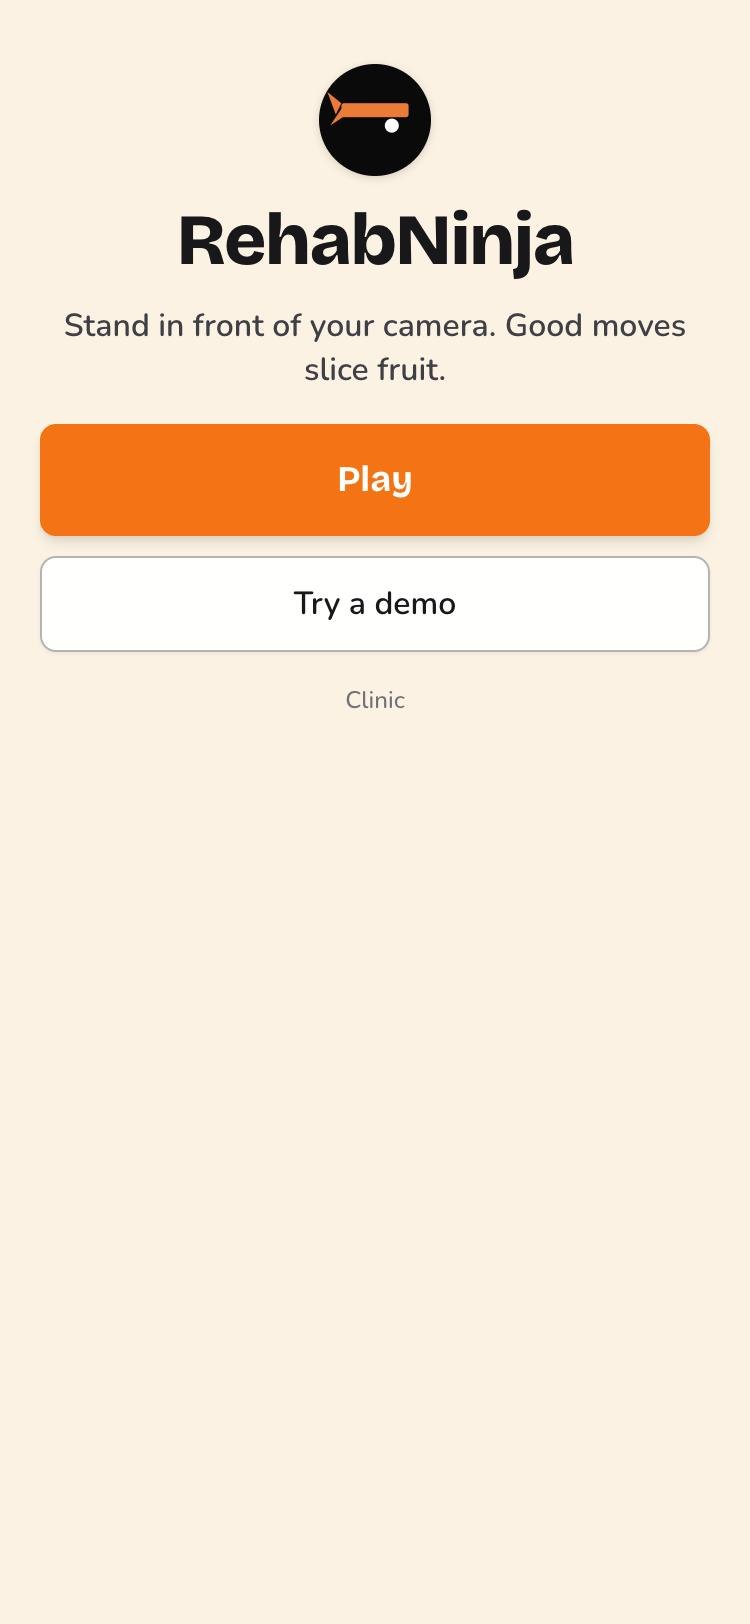
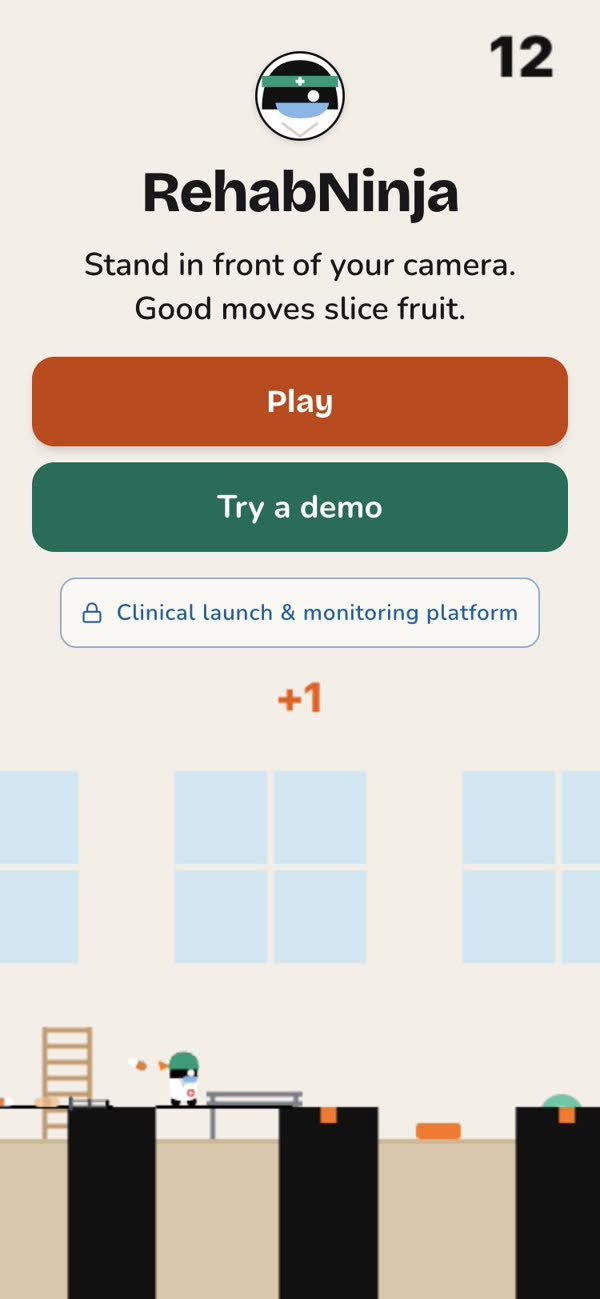
README: crew socialization and the clinic platform story; fresh screenshots
- Story: the game, the crew (opt-in peers to ease isolation while recovering at
  home), and the clinic platform (launch a protocol per patient, live board,
  rule-based triage with routes, human approve/downgrade, crew hold, audit trail).
- New screenshots from the current build: start screen, crew consent and board,
  player home, live fruit and bombs with the AI demo video, closing tip, protocol
  launch, live board, triage card, decision and crew panel, classic check-in.
- Classic check-in: the "AI-generated demo video" badge moves to the bottom of the
  frame during the test, clear of her face and the timer ring.

diff --git a/app/p/[token]/check-in.tsx b/app/p/[token]/check-in.tsx
@@ -383,7 +383,10 @@ export function CheckIn({
       <div className={cn("relative overflow-hidden rounded-xl bg-black", showCamera ? "block" : "hidden", step === "test" || step === "paused" ? "aspect-[3/4]" : "aspect-[4/3]")}>
         <video ref={videoRef} playsInline muted className={cn("h-full w-full", demo ? "object-contain" : "object-cover", demo && !demoVideo && "hidden", facing === "user" && !demo && "-scale-x-100")} />
         {demo && demoVideo && (
-          <span className="absolute right-3 top-3 z-10 rounded-full bg-black/70 px-3 py-1 text-base font-medium text-white">AI-generated demo video</span>
+          // Top right in setup (the framing pill owns the bottom); bottom centre in the test, clear of the timer ring.
+          <span className={cn("absolute z-10 whitespace-nowrap rounded-full bg-black/70 px-3 py-1 text-base font-medium text-white", step === "test" || step === "paused" ? "bottom-3 left-1/2 -translate-x-1/2" : "right-3 top-3")}>
+            AI-generated demo video
+          </span>
         )}
         <canvas ref={canvasRef} className={cn("pointer-events-none absolute inset-0 h-full w-full", facing === "user" && !demo && "-scale-x-100")} />
         {/* Until the camera is on, show what each safety check looks like (follows the first unticked check). */}

diff --git a/README.md b/README.md
@@ -1,39 +1,97 @@
 # Rise · RehabNinja
 
-**Post-op rehab you play on your phone.** Stand in front of the camera, do today's assigned move, and good reps slice fruit. When a knee drifts in or your hands push off the chair, the fruit turns into a bomb. Behind the game, the same pose tracking measures the CDC-standard chair stand, so the care team sees real numbers while the patient only ever sees hits and misses.
+**Post-op rehab you play on your phone, with a crew in your corner and a care team watching your back.**
+
+Patients stand in front of the camera, do today's assigned move, and good reps slice fruit. When a knee drifts in or their hands push off the chair, the fruit turns into a bomb. Behind the game, the same pose tracking measures the CDC-standard chair stand, so the care team sees real numbers while the patient only ever sees hits and misses.
+
+Rise has three parts:
+
+- **The game (RehabNinja).** Two minutes of play replace a form nobody fills in.
+- **The crew.** A small, opt-in group of people on the same recovery path, cheering each other on, so recovering at home feels less isolated.
+- **The clinic platform.** The care team launches a protocol for each patient, watches results arrive live, and decides every escalation with one human click.
 
 Built for the Real-Time Video Agents Hack – NYC (VAST Builders Challenge). All patient data is synthetic.
 
-**Live demo:** https://rise.nextrex.health (served from the demo laptop through a Cloudflare tunnel; up only while it runs). Try **Try a demo** for Ellen's scripted session, no camera needed.
+**Live demo:** https://rise.nextrex.health (served from the demo laptop through a Cloudflare tunnel, so it's only up while the laptop runs it). Tap **Try a demo** for Ellen's session, no camera needed.
 
 <p>
-  <img src="docs/images/01-landing.jpg" alt="RehabNinja landing: Play or Try a demo" width="200">
-  <img src="docs/images/02-your-board.jpg" alt="Your board: Ellen's rank and score in her knee-track cohort" width="200">
-  <img src="docs/images/03-player-home.jpg" alt="Your home: day 3, board place, and today's mission, chair sit-to-stand 1 × 6" width="200">
+  <img src="docs/images/01-landing.jpg" alt="RehabNinja start screen: Play, Try a demo, and a staff link to the clinical launch and monitoring platform" width="200">
+  <img src="docs/images/03-crew-board.jpg" alt="Ellen's crew: first names and initials, days active this week, cheers" width="200">
+  <img src="docs/images/05-live-fruit.jpg" alt="Live play: a clean arms-crossed stand slices the fruit, with the AI demo video picture-in-picture" width="200">
+  <img src="docs/images/10-triage-card.jpg" alt="Clinic triage card: Escalate urgent to surgeon on call, awaiting a person's decision, with the rule that fired" width="380">
+</p>
+
+## Why
+
+After a joint replacement, the day-7 phone call hears "I'm fine," and functional decline goes unseen until the next visit or the ED. Patients are often 60 to 80, recovering alone, with one phone. They won't fill in forms, and weeks at home with limited mobility can leave them isolated. Rise answers each problem in a different way:
+
+| Problem | What Rise does |
+| --- | --- |
+| Forms go unanswered | A two-minute game measures the CDC STEADI 30-Second Chair Stand in the background |
+| Recovering alone is isolating | An opt-in crew of peers on the same path: days active, a shared weekly goal, and cheers |
+| Decline is noticed late | Every session lands on a live clinic board, triaged by written rules |
+| Escalation is ad hoc | Each recommendation names a route (surgeon, primary care, or PT), and a person approves or downgrades it with a reason |
+
+## For the patient
+
+<p>
+  <img src="docs/images/04-player-home.jpg" alt="Your home: day 3 since surgery, check-ins done, how last time felt, and today's mission" width="200">
+  <img src="docs/images/06-live-bombs.jpg" alt="Live play: bombs on the hands and knees when she pushes off her thighs" width="200">
+  <img src="docs/images/07-session-report.jpg" alt="Closing: one tip for next time, in plain language, with the coach's line captioned below" width="200">
+  <img src="docs/images/12-classic-checkin.jpg" alt="Classic CDC check-in: the AI demo video in the camera frame while the coach says keep your arms crossed" width="200">
+</p>
+
+1. **Your week and your crew.** Patients see their own progress first. Below it is their crew, if they choose to join.
+2. **Your home and today's missions.** Day since surgery, check-ins done, how last time felt, and the moves the program assigns for this stage: chair sit-to-stand, mini squat, or single-leg balance.
+3. **Play.** The phone tracks the body on-device. Clean reps slice the fruit on the joints. Form breaks (knees caving in, moving too fast, pushing off with the hands, leaning to one side) become bombs. A single ElevenLabs coach voice reads every line, every line is captioned, and Stop is always on screen.
+4. **Four quick questions.** Pain, dizziness, shortness of breath or chest pain, and calf pain or swelling. A yes to breath or chest pain goes straight to call-911 instructions.
+5. **Closing, in three short steps.** One tip for next time, how today went compared with last time, and an optional note for the nurse. There is never a clinical score.
+
+The **classic check-in** (`/p/<patient>`) is the same CDC test as a voice-led flow with no game. Until the camera is on, a picture guide shows each safety check: a chair without armrests against a wall, a helper nearby, and the phone on the floor.
+
+## The crew: recovering together
+
+Recovery at home can be lonely. The crew turns rehab into something people do together without turning it into a competition.
+
+<p>
+  <img src="docs/images/02-crew-consent.jpg" alt="Join your crew: what your crew sees and what it never sees" width="200">
+  <img src="docs/images/03-crew-board.jpg" alt="Who is on this crew: names with one initial, days active, cheers" width="200">
+</p>
+
+- **Opt-in, with plain consent.** Before joining, patients see exactly what their crew will see (first name and initial, days active this week, cheers) and what it never sees (exercise results, health answers, messages with the care team). Joining, leaving, and showing or hiding a photo are each recorded in a consent log. Patients can leave at any time.
+- **Motivation, not rank.** There are no ranks, places, scores, or rep counts. The crew shares a weekly goal of 2 active days per member, loosely informed by CDC's guidance of at least 2 days a week of muscle-strengthening activity for older adults. It is a Rise default, not a clinical dose. Cheers come from a fixed, friendly set, sent from a verified device, so nothing negative can be written.
+- **Safe by default.** When a session escalates, the patient is quietly put on hold from their crew. Peers no longer see them, and no one is told to "keep going" after being told to rest. Only a clinician returns them to their crew, with a recorded reason.
+- **Neutral crew names** like "Maple crew" never reveal a procedure or diagnosis. The crew peers in the demo are synthetic.
+
+## The clinic platform: launch protocols, manage escalation
+
+The staff link on the start screen opens the clinic console (`/clinic`). It is where the care team starts each check-in and decides what happens after.
+
+<p>
+  <img src="docs/images/08-launch-protocol.jpg" alt="Send check-in: choose the RehabNinja game or the classic CDC check-in, optionally with the demo recording" width="400">
+  <img src="docs/images/09-console-board.jpg" alt="Live board and patient list: Ellen's card reads Escalate urgent to surgeon on call, awaiting a decision" width="400">
 </p>
 <p>
-  <img src="docs/images/04-live-fruit.jpg" alt="Live play: fruit on the knees during a clean stand, reps 1 of 6" width="200">
-  <img src="docs/images/05-live-bombs.jpg" alt="Live play: bombs when the hands push off the chair" width="200">
-  <img src="docs/images/06-session-report.jpg" alt="Session report: 2 hits, hit timeline, one plain-language correction" width="200">
+  <img src="docs/images/10-triage-card.jpg" alt="Triage card: the recommendation, the rule that fired, and the 30-Second Chair Stand result" width="400">
+  <img src="docs/images/11-decision-and-crew.jpg" alt="Your decision: approve or downgrade with a reason, the crew hold, and the audit trail" width="400">
 </p>
 
-## How a session plays
-
-1. **Your week and your crew.** Each patient sees their own progress, plus a crew of people on the same recovery path: first name and initial, days active this week, a shared crew goal, and three fixed cheers they can send once a day. No ranks, places, scores, reps, or procedures are shared, and a red-flag session never shows as active. The crew peers are synthetic.
-2. **Your home and today's missions.** Day since surgery, check-ins, how last time felt, and the moves the program assigns for this stage: chair sit-to-stand, mini squat, or single-leg balance.
-3. **Play.** The phone tracks the body on-device. Clean reps slice the fruit on your joints; form breaks (knees caving in, moving too fast, pushing off with your hands, leaning to one side) become bombs. A voice coach (ElevenLabs) and captions guide every step, and Stop is always on screen.
-4. **Four quick questions.** Pain, dizziness, shortness of breath or chest pain, calf pain or swelling. A yes to breath or chest pain goes straight to call-911 instructions.
-5. **Session report.** Hits and a hit timeline, plus one plain-language correction ("You used your arms to help you stand", what it means, what to try next). Never a clinical score.
+- **Launch a protocol for each patient.** From the patient list, a coordinator sends a check-in link and chooses the protocol: the RehabNinja game (the moves assigned for this recovery stage, not a CDC score) or the classic CDC STEADI 30-Second Chair Stand with spoken instructions. Protocol defaults, such as cadence by post-op day, decline thresholds, symptom questions, and crew rules, live in [`config/protocol.default.json`](config/protocol.default.json). They are labeled as Rise defaults, not clinical standards, and every override needs a reason code.
+- **Watch it live.** Sessions stream onto the live board as they happen, from setting up through testing to ready.
+- **Triage by written rules, never a model.** [`lib/rules.ts`](lib/rules.ts) produces the recommendation: escalate urgent, nurse callback, or continue the plan. It routes to the surgeon on call within 30 days of surgery, or to primary care or PT. The card shows which rule fired and why (for Ellen: 3 stands against 5 last time, arms used from rep 2), along with the CDC result, symptoms, and the patient's note quoted exactly as written.
+- **A person decides every escalation.** Nothing is sent or escalated until someone clicks. They can approve the recommendation or downgrade it with a reason, such as spoke with the patient, finding already known, camera problem, or in-person visit within 24 hours. Every decision goes into the audit trail. A red-flag answer is the one exception: the patient sees the emergency line immediately.
+- **Crew controls.** The card shows the patient's crew hold and consent history, and returns them to their crew once the card is decided.
+- **Gated.** On the public tunnel, the console sits behind a `CONSOLE_KEY` cookie, and every POST must come from the same site.
 
 ## YOLO detects, Cosmos verifies
 
 The game reacts instantly because YOLO runs on the phone. Every time YOLO flags a form break (knees caving, too fast, hands pushing off, leaning) or loses tracking, Rise also sends the last ~2 seconds of camera frames to **NVIDIA Cosmos** (`cosmos3-nano-reasoner`, the event's NIM) for a second look. The clinic strip shows whether Cosmos confirms what YOLO saw, what it observed, and "Needs a human look" if anything looks unsafe. With four 448 px frames, Cosmos answers in about 1.3–3.6 s.
 
 <p>
-  <img src="docs/images/07-cosmos-second-look.jpg" alt="Live play with the clinic strip: hits, hit timeline, and a Cosmos second look on 'Miss — hands'" width="640">
+  <img src="docs/images/13-cosmos-second-look.jpg" alt="Live play with the clinic strip: hits, hit timeline, and a Cosmos second look on 'Miss — hands'" width="640">
 </p>
 
-The screenshot is Ellen's demo replay, which has no camera frames, so the entry is the pose-only fallback, badged "Demo replay". With the live camera, the entry is Cosmos's own reply. Here's a real one from the event endpoint, run on a still frame where there's no motion to judge:
+The screenshot is from Ellen's demo replay, which has no camera frames, so the entry is the pose-only fallback, badged "Demo replay". With the live camera, the entry is Cosmos's own reply. Here's a real one from the event endpoint, run on a still frame with no motion to judge:
 
 ```json
 {
@@ -51,39 +109,44 @@ The screenshot is Ellen's demo replay, which has no camera frames, so the entry 
 
 Cosmos is care-team only. It never changes hits, bombs, or triage, and never talks to the patient.
 
-## Why a game
-
-After a joint replacement, the day-7 phone call hears "I'm fine," and functional decline goes unseen until the next visit or the ED. Patients (often 60–80, alone, with one phone) won't fill in forms, but they will play two minutes of a game. Rise turns the standard test into that game:
+## What the patient sees vs. what the care team gets
 
 | What the patient sees | What the care team gets |
 | --- | --- |
 | Fruit, bombs, reps toward a target | CDC STEADI 30-Second Chair Stand: raw stands, the arm-use rule (score 0 if arms are used), knee asymmetry, pauses |
 | "Today seemed harder than last time" | The trend against the patient's own last check-in |
-| One friendly correction | Which form break fired, and when |
-| Nothing scary | Deterministic triage: escalate, nurse callback, or continue the plan, routed to surgeon, primary care, or PT |
+| One friendly tip | Which form break fired, and when |
+| Their crew's cheers | Crew hold and consent history on the triage card |
+| Nothing scary | Deterministic triage, routed to surgeon, primary care, or PT, approved by a person |
 
-The recommendation always comes from written rules (`lib/rules.ts`), never a model, and a person approves every escalation. Patient-facing text comes only from locked copy files, written to SAMHSA's trauma-informed principles.
+Patient-facing text comes only from locked copy files, written to SAMHSA's trauma-informed principles.
 
-## Two ways in
+## Demo mode and the AI-generated demo video
 
-- **RehabNinja** (`/` → `/play` board → `/play/<patient>` home → play): the game, above.
-- **Classic check-in** (`/p/rise-01`): the same test as a voice-led, no-game flow (P1–P5): safety checks and framing, spoken CDC instructions, a 30-second chair stand, four questions, closing lines. **Use demo recording** replays a patient's session without a camera.
+**Try a demo** and the console's **Use demo recording** run without a camera. For Ellen, both play a 30-second AI-generated video of a synthetic older woman doing the chair stand: one clean stand with her arms crossed, then two where she pushes off her thighs. It is labeled "AI-generated demo video" wherever it appears.
+
+- **Classic check-in:** the video plays in the camera frame, in step with keypoints recorded from it ([`public/fixtures/rise-01-arms.json`](public/fixtures/rise-01-arms.json)). The counter and triage run on exactly what the video shows.
+- **RehabNinja:** the video plays picture-in-picture while the medic ninja moves from her keypoints, so clean stands earn fruit and push-offs earn bombs. Add `?replay=1` to force the replay on a laptop that has a camera.
+
+The video was made with the Runway API ([`scripts/gen-demo-video.ts`](scripts/gen-demo-video.ts), dry run by default, with a credit cap). Every other patient uses a synthetic keypoint replay.
 
 ## Under the hood
 
 ```
 Phone camera ──> pose on-device (YOLO11n-pose ONNX via WebGPU/WASM, MediaPipe fallback)
              ──> stand counter / form findings ──> fruit, bombs, reps (RehabNinja)
-                                               ├─> on a form break: last ~2 s of frames ──> Cosmos (cosmos3-nano-reasoner) second look ──> clinic strip
-                                               └─> CDC score + deterministic triage rules
+                                               ├─> on a form break: last ~2 s of frames ──> Cosmos second look ──> clinic strip
+                                               └─> CDC score + deterministic triage rules ──> live clinic board (SSE) ──> human decision ──> audit trail
+Crew: opt-in membership, consent log, device-token cheers, auto-hold on escalation
 Voice: ElevenLabs lines pre-rendered to public/voice (hash-keyed; browser speech fallback)
 Hosting: Next.js on the demo laptop ──> Cloudflare Tunnel ──> rise.nextrex.health
 ```
 
-- **Pose tiers:** YOLO is kept only at 15 fps or more on the phone (benchmarked: 16.6 fps WebGPU on Rex's phone); MediaPipe is preloaded and takes over mid-set if YOLO drops under 12 fps for 2 s; a demo replay drives the same code with no camera.
-- **Counter:** knee angle plus hip rise with hysteresis, the CDC half-way rule at 30 s, arm-use, mid-rise asymmetry, pauses. Unit-tested against all seven seed patients.
-- **Cosmos second look:** YOLO detects, Cosmos verifies. When YOLO flags a form break or loses tracking during live play, the last ~2 s of camera frames (4 downscaled JPEGs, never stored) and YOLO's numbers go to Cosmos (`nvidia/cosmos3-nano-reasoner` on the event's NVIDIA NIM) through `POST /api/cosmos/second-look`. The clinic strip shows whether Cosmos confirms what YOLO saw, what it observed, and "Needs a human look" on anything unsafe. It is care-team only and never changes hits, bombs, or triage. It uses an OpenAI-compatible endpoint with a bearer token (`COSMOS_BASE_URL`, `COSMOS_API_KEY`, `COSMOS_MODEL` in `.env.local`; check with `npm run cosmos:probe`), with a pose-only fallback badged "Demo data" when Cosmos is unavailable or in demo replay.
-- **Built, not yet wired:** a W&B agent note (Weave-traced), VAST clip ingest and semantic search, Twilio invites, and the live clinic console have typed contracts (`lib/types.ts`) and stubs in `lib/ai/` and `lib/adapters/`, but no live calls yet.
+- **Pose tiers:** YOLO is kept only at 15 fps or more on the phone (benchmarked at 16.6 fps with WebGPU on Rex's phone). MediaPipe is preloaded and takes over mid-set if YOLO drops under 12 fps for 2 s. A demo replay drives the same code with no camera.
+- **Counter:** knee angle plus hip rise with hysteresis, the CDC half-way rule at 30 s, arm use, mid-rise asymmetry, and pauses. Arm use is judged against the patient's own seated arms-crossed pose, so a phone propped side-on or in front both work. Unit-tested against all seven seed patients and the recorded demo fixture.
+- **Cosmos second look:** when YOLO flags a form break or loses tracking during live play, the last ~2 s of camera frames (4 downscaled JPEGs, never stored) and YOLO's numbers go to Cosmos through `POST /api/cosmos/second-look`. It uses an OpenAI-compatible endpoint (`COSMOS_BASE_URL`, `COSMOS_API_KEY`, `COSMOS_MODEL` in `.env.local`; check it with `npm run cosmos:probe`). When Cosmos is unavailable, a pose-only fallback is shown, badged "Demo data".
+- **Clinic and crew state:** in-memory session and crew stores, a server-sent event stream to the console, Zod contracts in [`lib/types.ts`](lib/types.ts), and a console gate in [`proxy.ts`](proxy.ts).
+- **Built, not yet wired:** a W&B agent note (Weave-traced), VAST clip ingest and semantic search, Twilio invites, and the FHIR handoff have typed contracts and stubs in `lib/ai/` and `lib/adapters/`, but make no live calls yet.
 
 ## Run it
 
@@ -100,16 +163,17 @@ bash scripts/install-tunnel-service.sh  # same tunnel as a login service (surviv
 
 Phone camera access needs HTTPS, so test on a phone through the tunnel. The YOLO model (`public/models/pose.onnx`) is not committed; export it with `scripts/export_pose_onnx.py` (version pins for Intel Macs are in [docs/PREFLIGHT.md](docs/PREFLIGHT.md)). Without it, RehabNinja uses MediaPipe.
 
-Dev pages: `/dev/pose` (fps benchmark per tier) and `/dev/fixtures` (record keypoint fixtures for the demo replay).
+Pages: `/` (start), `/play` (your week and crew), `/play/<patient>` (home and play), `/p/<patient>` (classic check-in), and `/clinic` (console; set `CONSOLE_KEY` before exposing it). Dev pages: `/dev/pose` (fps benchmark per tier) and `/dev/fixtures` (record keypoint fixtures; `?clip=/demo/sit-to-stand.mp4` records from the demo video).
 
 ## The players
 
-Seven synthetic patients from [seed/patients.json](seed/patients.json) (see [seed/README.md](seed/README.md)): Ellen Marsh (hero: arms from rep 2, short of breath), Judith Kerr, Walter Brandt, Gary Lindqvist, Diane Coulter, Ruth Abernathy, Harold Pruitt. Each scenario echoes the next real event in the source chart, so their expected triage doubles as the test oracle.
+Seven synthetic patients from [seed/patients.json](seed/patients.json) (see [seed/README.md](seed/README.md)): Ellen Marsh (the demo patient: arms from rep 2, short of breath), Judith Kerr, Walter Brandt, Gary Lindqvist, Diane Coulter, Ruth Abernathy, and Harold Pruitt. Each scenario echoes the next real event in the source chart, so its expected triage doubles as the test oracle.
 
 ## Limitations
 
-- Remote, phone-scored STEADI administration is not validated. Rise compares patients mainly to themselves and triggers a human call, not a diagnosis. Hits and misses are motivation, not a clinical measure.
-- Synthetic data only. No production auth, EHR connection, or compliance infrastructure.
+- Remote, phone-scored STEADI administration is not validated. Rise compares patients mainly with themselves and triggers a human call, not a diagnosis. Hits and misses are motivation, not a clinical measure.
+- The crew is engagement only. Its weekly goal is a Rise default, not a prescribed dose, and it has not been studied for effects on isolation or outcomes.
+- Synthetic data only. The console has a single demo coordinator, with no staff sign-in, EHR connection, or compliance infrastructure. Session and crew state lives in memory.
 
 ## More
 
@@ -117,8 +181,8 @@ Seven synthetic patients from [seed/patients.json](seed/patients.json) (see [see
 
 ## Team and credits
 
-- Rex Belgarde ([@rexbel](https://github.com/rexbel)): pose tracking, stand counter, triage rules, classic check-in, Cosmos second look, voice, hosting.
+- Rex Belgarde ([@rexbel](https://github.com/rexbel)): pose tracking, stand counter, triage rules, clinic console, crew, classic check-in, Cosmos second look, voice, demo video, hosting.
 - Jeremiah Richard ([@thetradingdoc](https://github.com/thetradingdoc)): RehabNinja game, cohort board and player home, programs, form findings, session report.
 - Patients: [Synthetic Hospital v1.3](https://github.com/sparkcpark/synthetic_hospital) (MIT), Park, Chen, Dettmers, 2026.
-- Protocol: CDC STEADI [30-Second Chair Stand](https://www.cdc.gov/steadi/media/pdfs/STEADI-Assessment-30Sec-508.pdf) and [4-Stage Balance](https://www.cdc.gov/steadi/media/pdfs/STEADI-Assessment-4Stage-508.pdf).
-- Patient language: SAMHSA's six trauma-informed principles. Voice: ElevenLabs. Pose: Ultralytics YOLO11, Google MediaPipe. UI: [shadcn/ui](https://ui.shadcn.com), PixiJS.
+- Protocol: CDC STEADI [30-Second Chair Stand](https://www.cdc.gov/steadi/media/pdfs/STEADI-Assessment-30Sec-508.pdf) and [4-Stage Balance](https://www.cdc.gov/steadi/media/pdfs/STEADI-Assessment-4Stage-508.pdf). Crew weekly goal informed by CDC's [physical activity guidelines for older adults](https://www.cdc.gov/physical-activity-basics/guidelines/older-adults.html).
+- Patient language: SAMHSA's six trauma-informed principles. Voice: ElevenLabs. Demo video: Runway (AI-generated, synthetic person). Pose: Ultralytics YOLO11, Google MediaPipe. UI: [shadcn/ui](https://ui.shadcn.com), PixiJS.
